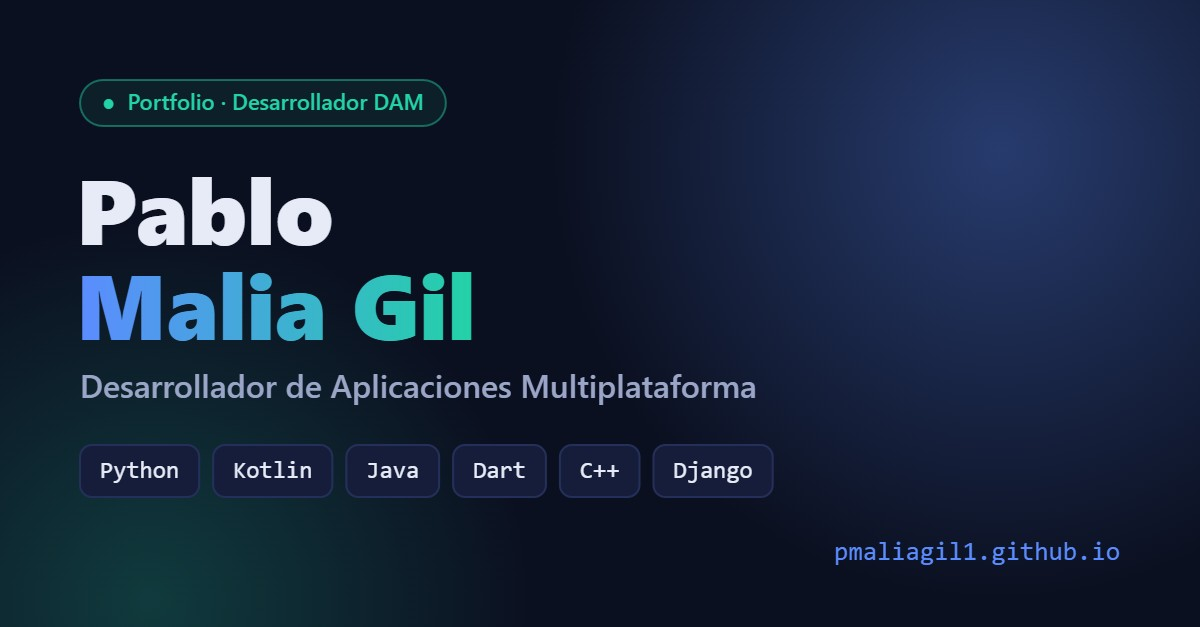
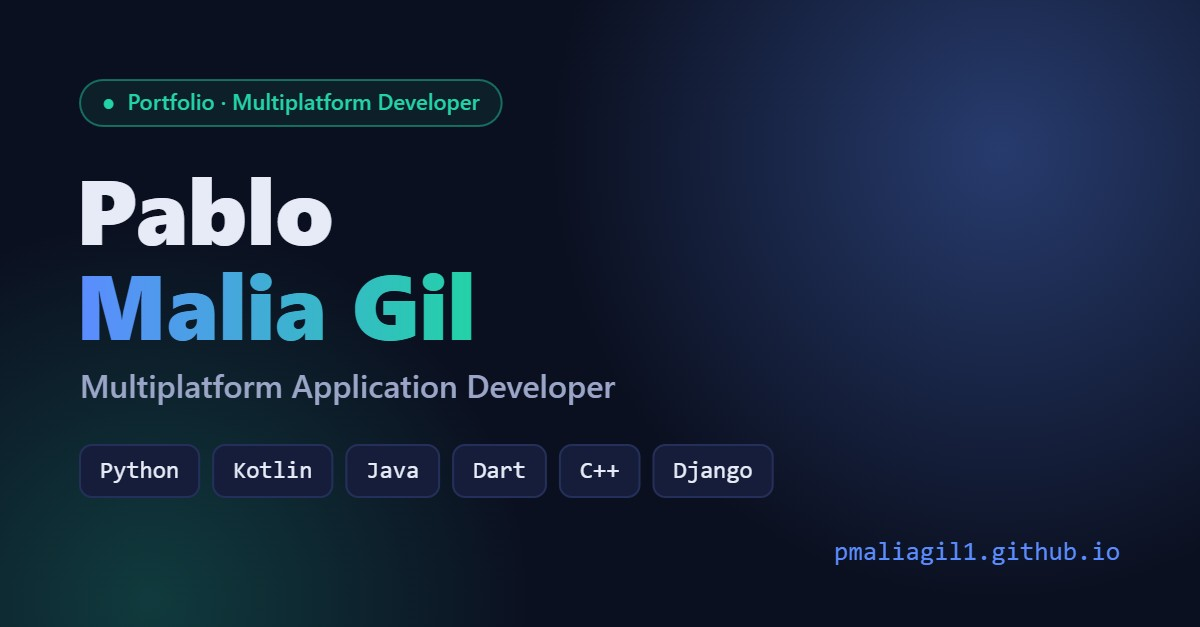
Add files via upload

Changed region(s): [[0.0617, 0.5758, 0.6475, 0.6364], [0.185, 0.1212, 0.4317, 0.2121]]

diff --git a/index.html b/index.html
@@ -1,14 +1,14 @@
 <!DOCTYPE html>
-<html lang="es">
+<html lang="en">
 <head>
 <meta charset="UTF-8">
 <meta name="viewport" content="width=device-width, initial-scale=1">
-<title>Pablo Malia Gil · Desarrollador de Aplicaciones Multiplataforma</title>
-<meta name="description" content="Portfolio de Pablo Malia Gil, desarrollador junior de aplicaciones multiplataforma (DAM) en Cádiz. Python, Kotlin, Java, Dart, C++, Django y MudBlazor.">
+<title>Pablo Malia Gil · Multiplatform Application Developer</title>
+<meta name="description" content="Portfolio of Pablo Malia Gil, junior multiplatform application developer based in Cádiz, Spain. Python, Kotlin, Java, Dart, C++, Django and MudBlazor.">
 <meta property="og:type" content="website">
 <meta property="og:url" content="https://pmaliagil1.github.io/">
-<meta property="og:title" content="Pablo Malia Gil · Desarrollador de Aplicaciones Multiplataforma">
-<meta property="og:description" content="Portfolio: experiencia, aptitudes (Python, Kotlin, Java, Dart, C++, Django) y contacto.">
+<meta property="og:title" content="Pablo Malia Gil · Multiplatform Application Developer">
+<meta property="og:description" content="Portfolio: experience, skills (Python, Kotlin, Java, Dart, C++, Django) and contact.">
 <meta property="og:image" content="https://pmaliagil1.github.io/og.jpg">
 <meta property="og:image:width" content="1200">
 <meta property="og:image:height" content="627">
@@ -122,27 +122,27 @@ footer{padding:32px 0;text-align:center;color:var(--muted);font-size:13px;border
   <div class="wrap">
     <a href="#" class="logo mono">pablo<span>.dev</span></a>
     <div class="links">
-      <a href="#sobre-mi">Sobre mí</a>
-      <a href="#aptitudes">Aptitudes</a>
-      <a href="#experiencia">Experiencia</a>
-      <a href="#formacion">Formación</a>
-      <a href="#contacto">Contacto</a>
+      <a href="#sobre-mi">About</a>
+      <a href="#aptitudes">Skills</a>
+      <a href="#experiencia">Experience</a>
+      <a href="#formacion">Education</a>
+      <a href="#contacto">Contact</a>
     </div>
   </div>
 </nav>
 
 <header class="hero">
   <div class="wrap">
-    <div class="tag"><span class="dot"></span>Abierto a nuevas oportunidades</div>
-    <h1>Hola, soy<br><span class="grad">Pablo Malia Gil</span></h1>
-    <p class="role">Desarrollador de Aplicaciones Multiplataforma · Junior Developer</p>
-    <p class="loc">📍 Cádiz, Andalucía, España</p>
+    <div class="tag"><span class="dot"></span>Open to new opportunities</div>
+    <h1>Hi, I'm<br><span class="grad">Pablo Malia Gil</span></h1>
+    <p class="role">Multiplatform Application Developer · Junior Developer</p>
+    <p class="loc">📍 Cádiz, Andalusia, Spain</p>
     <div class="term mono">
       <div><b>$</b> whoami</div>
-      <div>dev multiplataforma · <i>Python</i> · <i>Kotlin</i> · <i>Java</i> · <i>Dart</i> · <i>C++</i> · <i>Django</i></div>
+      <div>multiplatform dev · <i>Python</i> · <i>Kotlin</i> · <i>Java</i> · <i>Dart</i> · <i>C++</i> · <i>Django</i></div>
     </div>
     <div class="cta">
-      <a class="btn primary" href="#contacto">Contactar</a>
+      <a class="btn primary" href="#contacto">Get in touch</a>
       <a class="btn ghost" href="https://www.linkedin.com/in/pablo-malia-gil-41108a332" target="_blank" rel="noopener">
         <svg viewBox="0 0 24 24" fill="currentColor"><path d="M20.45 20.45h-3.55v-5.57c0-1.33-.02-3.04-1.85-3.04-1.86 0-2.14 1.45-2.14 2.94v5.67H9.36V9h3.41v1.56h.05c.48-.9 1.64-1.85 3.37-1.85 3.6 0 4.27 2.37 4.27 5.46v6.28zM5.34 7.43a2.06 2.06 0 1 1 0-4.12 2.06 2.06 0 0 1 0 4.12zM7.12 20.45H3.56V9h3.56v11.45zM22.22 0H1.77C.79 0 0 .77 0 1.73v20.54C0 23.23.79 24 1.77 24h20.45c.98 0 1.78-.77 1.78-1.73V1.73C24 .77 23.2 0 22.22 0z"/></svg>LinkedIn</a>
       <a class="btn ghost" href="https://github.com/pmaliagil1" target="_blank" rel="noopener">
@@ -155,36 +155,36 @@ footer{padding:32px 0;text-align:center;color:var(--muted);font-size:13px;border
 <section id="sobre-mi">
   <div class="wrap about reveal">
     <div>
-      <p class="kicker mono">01 · Sobre mí</p>
-      <h2>Tecnología, aprendizaje y ganas de aportar</h2>
-      <p>Soy desarrollador de aplicaciones multiplataforma con una sólida base en <strong>Python, Kotlin, Java, Dart y C++</strong>. En <strong>ControlNet</strong> desarrollé interfaces con MudBlazor y trabajé en el backend con Django bajo metodologías ágiles.</p>
-      <p>Durante más de un año he trabajado como <strong>Revisor de Prompts de IA en Outlier</strong>, participando en la optimización de modelos generativos.</p>
-      <p>Soy <strong>Técnico Superior en Desarrollo de Aplicaciones Multiplataforma (DAM)</strong> por el IES Rafael Alberti, con formación en programación orientada a objetos, bases de datos y entornos multiplataforma. Me apasionan la tecnología y la innovación, y disfruto en equipos colaborativos donde aportar mi capacidad de aprendizaje rápido.</p>
+      <p class="kicker mono">01 · About me</p>
+      <h2>Technology, learning and a drive to contribute</h2>
+      <p>I'm a multiplatform application developer with a solid foundation in <strong>Python, Kotlin, Java, Dart and C++</strong>. At <strong>ControlNet</strong> I built user interfaces with MudBlazor and worked on the backend with Django using agile methodologies.</p>
+      <p>For over a year I worked as an <strong>AI Prompt Reviewer at Outlier</strong>, helping to optimize generative AI models.</p>
+      <p>I hold a <strong>Higher Technician Diploma in Multiplatform Application Development (DAM)</strong> from IES Rafael Alberti, with training in object-oriented programming, databases and multiplatform environments. I'm passionate about technology and innovation, and I enjoy collaborative teams where I can bring my fast learning and constant motivation to grow.</p>
     </div>
     <div class="facts">
-      <div class="fact"><div class="n">+1 año</div><div class="l">Optimizando modelos de IA generativa</div></div>
-      <div class="fact"><div class="n">B2</div><div class="l">Inglés acreditado · Cambridge First</div></div>
-      <div class="fact"><div class="n">DAM</div><div class="l">Técnico Superior en Desarrollo de Aplicaciones Multiplataforma</div></div>
+      <div class="fact"><div class="n">1+ year</div><div class="l">Optimizing generative AI models</div></div>
+      <div class="fact"><div class="n">B2</div><div class="l">Certified English · Cambridge First</div></div>
+      <div class="fact"><div class="n">DAM</div><div class="l">Higher Technician in Multiplatform Application Development</div></div>
     </div>
   </div>
 </section>
 
 <section id="aptitudes">
   <div class="wrap reveal">
-    <p class="kicker mono">02 · Aptitudes</p>
-    <h2>Stack y competencias</h2>
+    <p class="kicker mono">02 · Skills</p>
+    <h2>Stack &amp; competencies</h2>
     <div class="skills">
       <div class="card">
-        <h3><span class="ic mono">{ }</span>Lenguajes</h3>
+        <h3><span class="ic mono">{ }</span>Languages</h3>
         <div class="chips"><span class="chip">Python</span><span class="chip">Kotlin</span><span class="chip">C++</span><span class="chip">Java</span><span class="chip">Dart</span></div>
       </div>
       <div class="card">
-        <h3><span class="ic mono">&lt;/&gt;</span>Desarrollo web</h3>
-        <div class="chips"><span class="chip">Django</span><span class="chip">MudBlazor</span><span class="chip">Backend</span><span class="chip">Interfaces</span></div>
+        <h3><span class="ic mono">&lt;/&gt;</span>Web development</h3>
+        <div class="chips"><span class="chip">Django</span><span class="chip">MudBlazor</span><span class="chip">Backend</span><span class="chip">User interfaces</span></div>
       </div>
       <div class="card">
-        <h3><span class="ic mono">⚙</span>Prácticas</h3>
-        <div class="chips"><span class="chip">Desarrollo de software seguro</span><span class="chip">POO</span><span class="chip">Bases de datos</span><span class="chip">Metodologías ágiles</span><span class="chip">Prompt engineering</span></div>
+        <h3><span class="ic mono">⚙</span>Practices</h3>
+        <div class="chips"><span class="chip">Secure software development</span><span class="chip">OOP</span><span class="chip">Databases</span><span class="chip">Agile methodologies</span><span class="chip">Prompt engineering</span></div>
       </div>
     </div>
   </div>
@@ -192,27 +192,27 @@ footer{padding:32px 0;text-align:center;color:var(--muted);font-size:13px;border
 
 <section id="experiencia">
   <div class="wrap reveal">
-    <p class="kicker mono">03 · Experiencia</p>
-    <h2>Trayectoria profesional</h2>
+    <p class="kicker mono">03 · Experience</p>
+    <h2>Professional experience</h2>
     <div class="tl">
       <div class="item">
         <div class="card">
-          <div class="head"><h3>Revisor de Prompts de IA</h3><span class="date mono">oct 2024 – nov 2025</span></div>
-          <div class="org">Outlier · 1 año 2 meses</div>
+          <div class="head"><h3>AI Prompt Reviewer</h3><span class="date mono">Oct 2024 – Nov 2025</span></div>
+          <div class="org">Outlier · 1 yr 2 mos</div>
           <ul>
-            <li>Evaluación y mejora de prompts para optimizar las respuestas de IA.</li>
-            <li>Colaboración en la optimización de modelos generativos.</li>
+            <li>Evaluated and improved prompts to optimize AI responses.</li>
+            <li>Contributed to the optimization of generative models.</li>
           </ul>
-          <div class="chips"><span class="chip">IA generativa</span><span class="chip">LLMs</span><span class="chip">Evaluación de calidad</span></div>
+          <div class="chips"><span class="chip">Generative AI</span><span class="chip">LLMs</span><span class="chip">Quality evaluation</span></div>
         </div>
       </div>
       <div class="item">
         <div class="card">
-          <div class="head"><h3>Desarrollador en Prácticas</h3><span class="date mono">feb 2025 – mar 2025</span></div>
-          <div class="org">ControlNet · Jerez de la Frontera</div>
+          <div class="head"><h3>Software Developer Intern</h3><span class="date mono">Feb 2025 – Mar 2025</span></div>
+          <div class="org">ControlNet · Jerez de la Frontera, Spain</div>
           <ul>
-            <li>Desarrollo de interfaces con MudBlazor y backend con Django.</li>
-            <li>Colaboración en proyectos web en un entorno ágil.</li>
+            <li>Built user interfaces with MudBlazor and backend services with Django.</li>
+            <li>Collaborated on web projects in an agile environment.</li>
           </ul>
           <div class="chips"><span class="chip">MudBlazor</span><span class="chip">Django</span><span class="chip">Agile</span></div>
         </div>
@@ -223,28 +223,28 @@ footer{padding:32px 0;text-align:center;color:var(--muted);font-size:13px;border
 
 <section id="formacion">
   <div class="wrap reveal">
-    <p class="kicker mono">04 · Formación</p>
-    <h2>Educación y certificaciones</h2>
+    <p class="kicker mono">04 · Education</p>
+    <h2>Education &amp; certifications</h2>
     <div class="two">
       <div class="edu">
         <div class="card">
-          <div class="head"><h3>Técnico Superior en DAM</h3><span class="date mono">2025 – 2027</span></div>
-          <div class="org">IES Rafael Alberti · Desarrollo de Aplicaciones Multiplataforma</div>
+          <div class="head"><h3>Higher Technician Diploma in DAM</h3><span class="date mono">2025 – 2027</span></div>
+          <div class="org">IES Rafael Alberti · Multiplatform Application Development</div>
         </div>
         <div class="card">
-          <div class="head"><h3>Bachillerato</h3><span class="date mono">2021 – 2023</span></div>
+          <div class="head"><h3>Bachillerato (High School Diploma)</h3><span class="date mono">2021 – 2023</span></div>
           <div class="org">IES Trafalgar</div>
         </div>
       </div>
       <div class="edu">
         <div class="card">
-          <h3>Certificado en Desarrollo Seguro asistido por IA</h3>
+          <h3>Certificate in AI-Assisted Secure Development</h3>
           <div class="org" style="margin-top:6px">IES Rafael Alberti · MOWOMO · Roostr</div>
         </div>
         <div class="card">
           <h3>B2 First (Cambridge)</h3>
-          <div class="org" style="margin-top:6px">Inglés · competencia profesional completa</div>
-          <div class="chips" style="margin-top:12px"><span class="chip">Español · nativo</span><span class="chip">Inglés · profesional</span></div>
+          <div class="org" style="margin-top:6px">English · full professional proficiency</div>
+          <div class="chips" style="margin-top:12px"><span class="chip">Spanish · native</span><span class="chip">English · professional</span></div>
         </div>
       </div>
     </div>
@@ -253,9 +253,9 @@ footer{padding:32px 0;text-align:center;color:var(--muted);font-size:13px;border
 
 <section id="contacto" class="contact">
   <div class="wrap reveal">
-    <p class="kicker mono">05 · Contacto</p>
-    <h2>¿Hablamos?</h2>
-    <p>Busco oportunidades para seguir creciendo como desarrollador. Si crees que puedo encajar en tu equipo, escríbeme.</p>
+    <p class="kicker mono">05 · Contact</p>
+    <h2>Let's talk</h2>
+    <p>I'm looking for opportunities to keep growing as a developer. If you think I could be a good fit for your team, drop me a line.</p>
     <div class="cta">
       <a class="btn primary" href="mailto:pmaliagil@gmail.com">✉ pmaliagil@gmail.com</a>
       <a class="btn ghost" href="https://www.linkedin.com/in/pablo-malia-gil-41108a332" target="_blank" rel="noopener">LinkedIn</a>
@@ -266,7 +266,7 @@ footer{padding:32px 0;text-align:center;color:var(--muted);font-size:13px;border
 </main>
 
 <footer>
-  <div class="wrap mono">© <span id="y"></span> Pablo Malia Gil · Hecho con HTML y CSS</div>
+  <div class="wrap mono">© <span id="y"></span> Pablo Malia Gil · Built with HTML &amp; CSS</div>
 </footer>
 
 <script>
